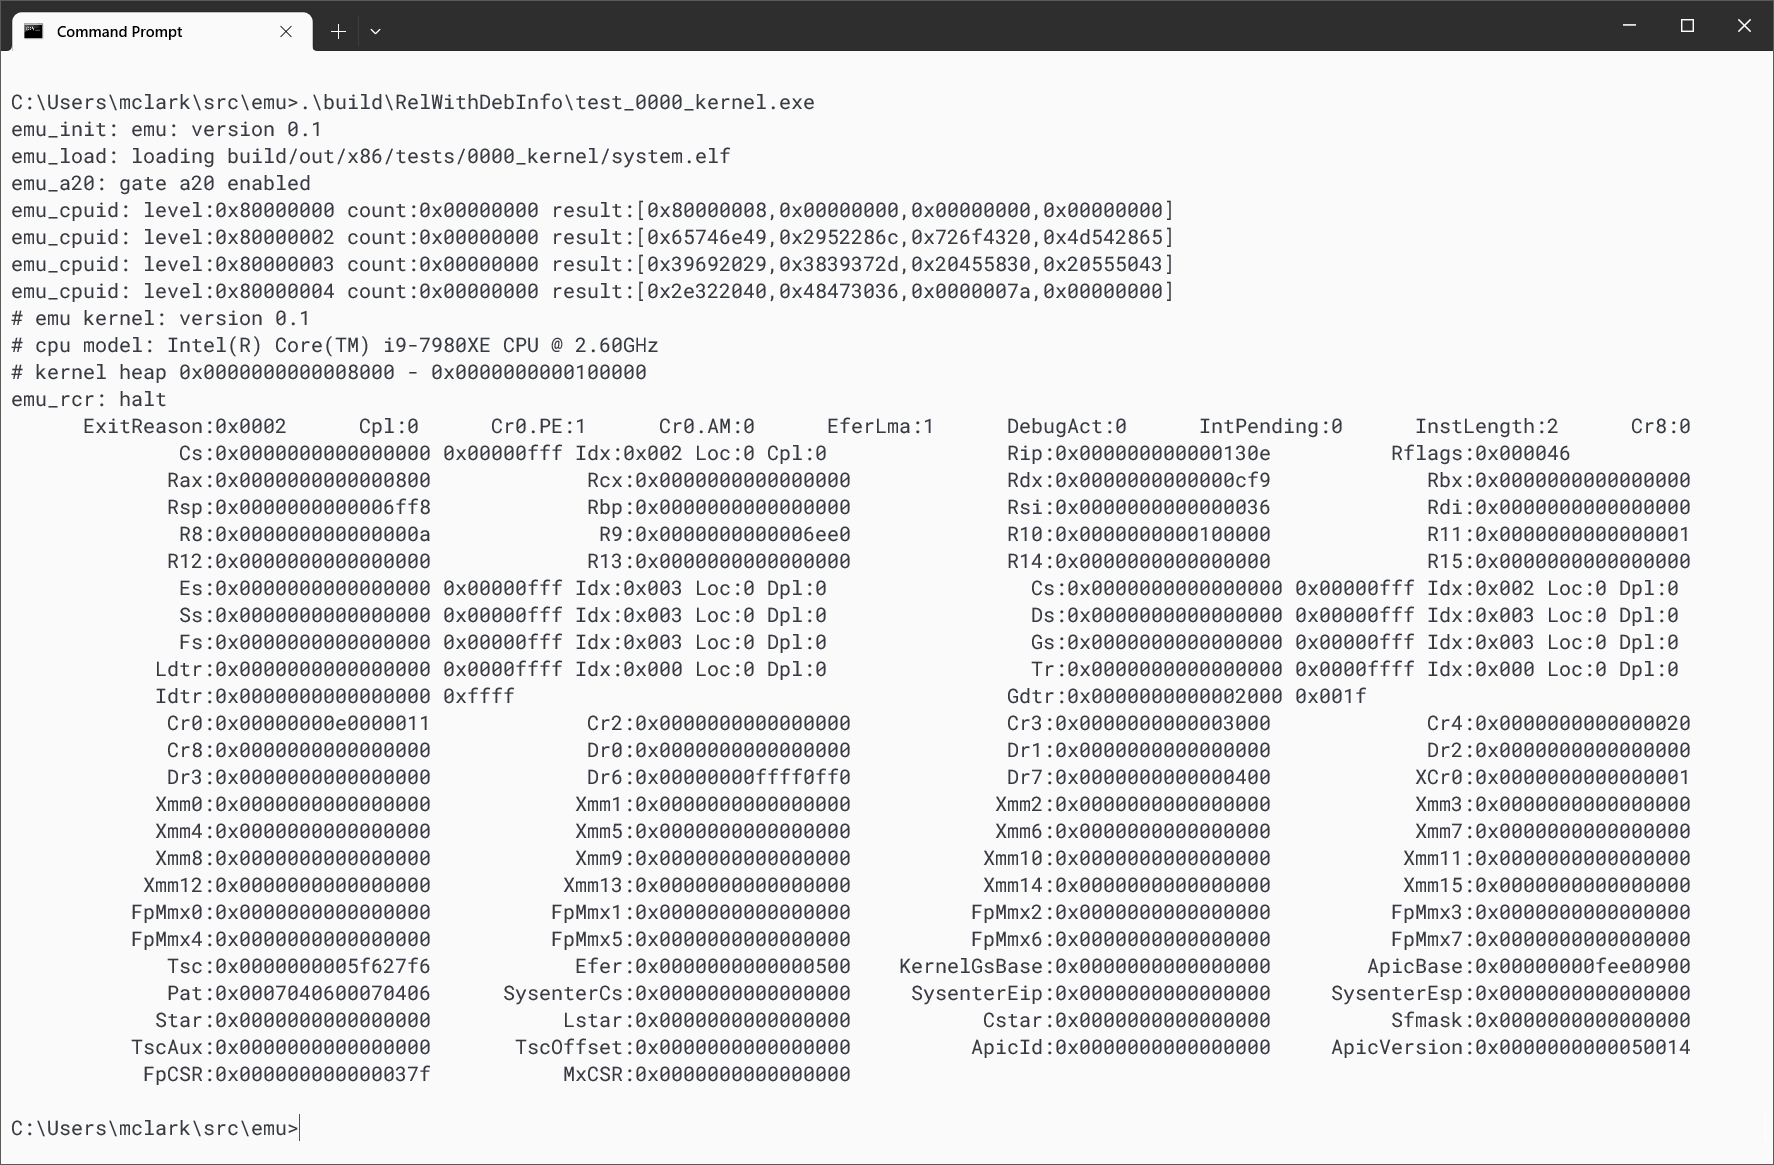
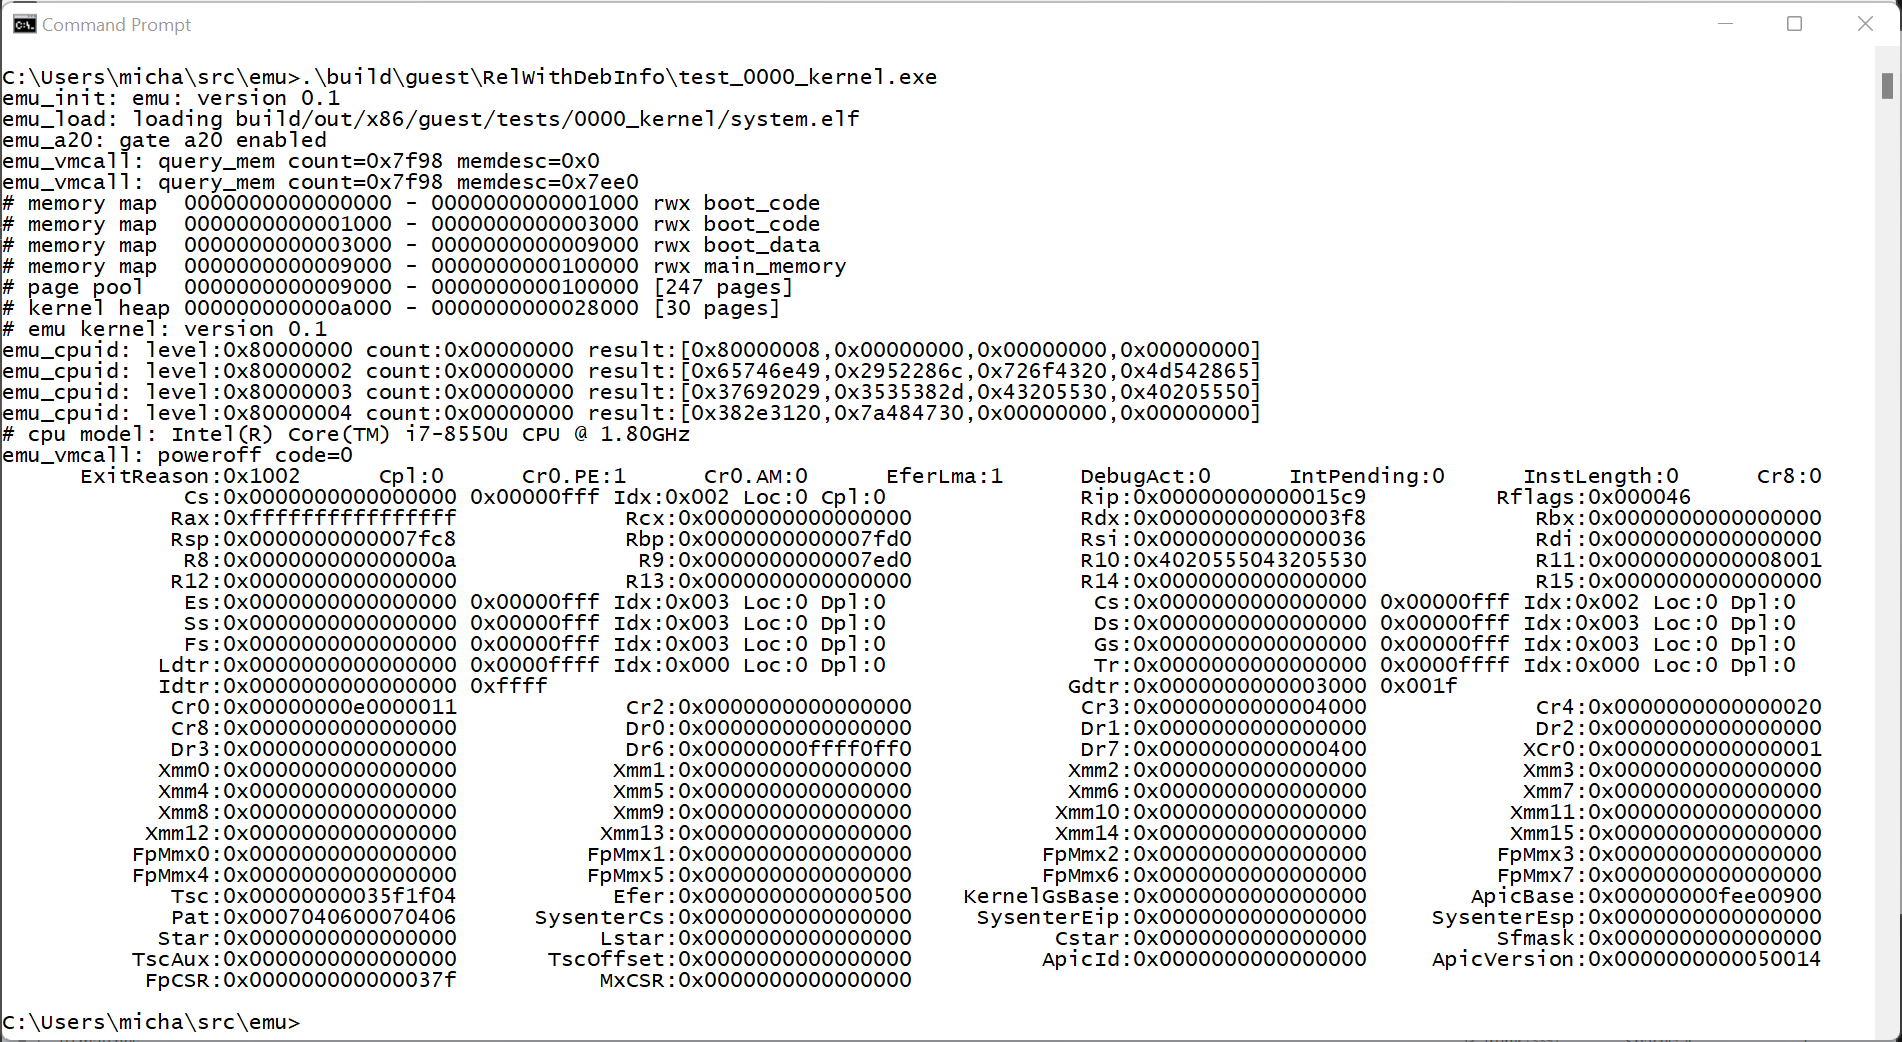
implement page allocator and allocate heap from page pool

diff --git a/guest/kern/mem.c b/guest/kern/mem.c
@@ -2,6 +2,8 @@
 #include "stddef.h"
 #include "stdlib.h"
 #include "alloca.h"
+#include "page.h"
+#include "x86_mmu.h"
 #include "vmm.h"
 
 static const char *mem_type_str(uint type)
@@ -29,11 +31,11 @@ static const char *mem_attr_str(uint type)
     }
 }
 
-void query_mem()
+void mem_setup()
 {
-    ullong memory_start = -1, memory_end = 0;
     ullong count = 0;
     emu_mem_desc *memdesc;
+    ullong memory_start = -1, memory_end = 0;
 
     vmm_query_mem(&count, NULL);
     memdesc = (emu_mem_desc*)alloca(sizeof(emu_mem_desc) * count);
@@ -42,15 +44,28 @@ void query_mem()
     for (ullong i = 0; i < count; i++) {
         ullong start = memdesc[i].phys_start;
         ullong end = memdesc[i].phys_start + memdesc[i].length;
-        printf("# memory map: %llx - %llx %s %s\n",
+        printf("# memory map  %llx - %llx %s %s\n",
             start, end,
             mem_attr_str(memdesc[i].mem_attrs),
             mem_type_str(memdesc[i].mem_type));
+        if (memdesc[i].mem_type != emu_mem_type_main_memory) {
+            continue;
+        }
         if (memory_start == (ullong)-1LL || start < memory_start) {
             memory_start = start;
         }
         if (end > memory_end) {
             memory_end = end;
         }
+    }
+    if (memory_start != -1) {
+        init_pages(memory_start, memory_end);
+        ullong heap_pages = pages_free() >> 3;
+        void *heap_start = alloc_pages(heap_pages);
+        _malloc_addblock(heap_start, heap_pages << PAGE_SHIFT);
+        printf("# kernel heap %llx - %llx [%lld pages]\n",
+            (ullong)heap_start,
+            (ullong)heap_start + (heap_pages << PAGE_SHIFT),
+            heap_pages);
     }
 }

diff --git a/guest/kern/page.c b/guest/kern/page.c
@@ -1,0 +1,57 @@
+#include "stdio.h"
+#include "page.h"
+#include "bitmap.h"
+#include "x86_mmu.h"
+
+typedef struct
+{
+	ullong addr;
+	ullong npages;
+	ullong fpages;
+	ullong offset;
+} page_pool;
+
+page_pool pages;
+
+inline ullong bitmap_pages() { return 1 + pages.npages / (PAGE_SIZE << 3); }
+inline ullong bitmap_size() { return bitmap_pages() * (PAGE_SIZE << 3); }
+
+void init_pages(ullong start, ullong end)
+{
+    pages.addr = start;
+    pages.npages = (end - start) >> PAGE_SHIFT;
+    pages.fpages = pages.npages - bitmap_pages();
+    bitmap_set((ullong*)pages.addr, bitmap_size(), 0, bitmap_pages(), 1);
+    printf("# page pool   %llx - %llx [%lld pages]\n",
+           start, end, pages.npages);
+}
+
+ullong pages_inuse()
+{
+	return pages.npages - pages.fpages;
+}
+
+ullong pages_free()
+{
+	return pages.fpages;
+}
+
+void* alloc_pages(ullong npages)
+{
+	ullong o;
+
+	if (pages.fpages < npages) return NULL;
+	o = bitmap_scan((ullong*)pages.addr, bitmap_size(), pages.offset, npages);
+	if (o == (ullong)-1) return NULL;
+	pages.offset = o + npages;
+	pages.fpages = pages.fpages - npages;
+    bitmap_set((ullong*)pages.addr, bitmap_size(), o, npages, 1);
+    return (uchar*)pages.addr + (o << PAGE_SHIFT);
+}
+
+void free_pages(void *addr, ullong npages)
+{
+	ullong o = ((ullong)addr - pages.addr) >> PAGE_SHIFT;
+    bitmap_set((ullong*)pages.addr, bitmap_size(), o, npages, 0);
+	pages.fpages = pages.fpages + npages;
+}

diff --git a/guest/tests/0000_kernel/start.c b/guest/tests/0000_kernel/start.c
@@ -9,17 +9,15 @@
 #include "types.h"
 #include "x86_intrin.h"
 
-extern char _memory_start;
-extern char _memory_end;
+void mem_setup();
+int main(int argc, char **argv);
 
 void setup()
 {
     register_console(&console_ns16550a);
     register_poweroff(&poweroff_vmm);
-    _malloc_addblock(&_memory_start, &_memory_end - &_memory_start);
+    mem_setup();
 }
-
-int main(int argc, char **argv);
 
 void start_c(void)
 {

diff --git a/guest/tests/0000_kernel/main.c b/guest/tests/0000_kernel/main.c
@@ -26,15 +26,10 @@ void cpu_info(char* cpu_name)
 
 char cpu_name[64];
 
-void query_mem();
-
 int main(int argc, const char **argv)
 {
     printf("# emu kernel: version %d.%d\n", 0, 1);
     cpu_info(cpu_name);
     printf("# cpu model: %s\n", cpu_name);
-    query_mem();
-    printf("# kernel heap %llx - %llx\n",
-        (ullong)&_memory_start, (ullong)&_memory_end);
     return 0;
 }

diff --git a/guest/include/page.h b/guest/include/page.h
@@ -1,0 +1,9 @@
+#pragma once
+
+#include "types.h"
+
+void init_pages(ullong memory_start, ullong memory_end);
+ullong pages_inuse();
+ullong pages_free();
+void* alloc_pages(ullong npages);
+void free_pages(void *addr, ullong npages);
